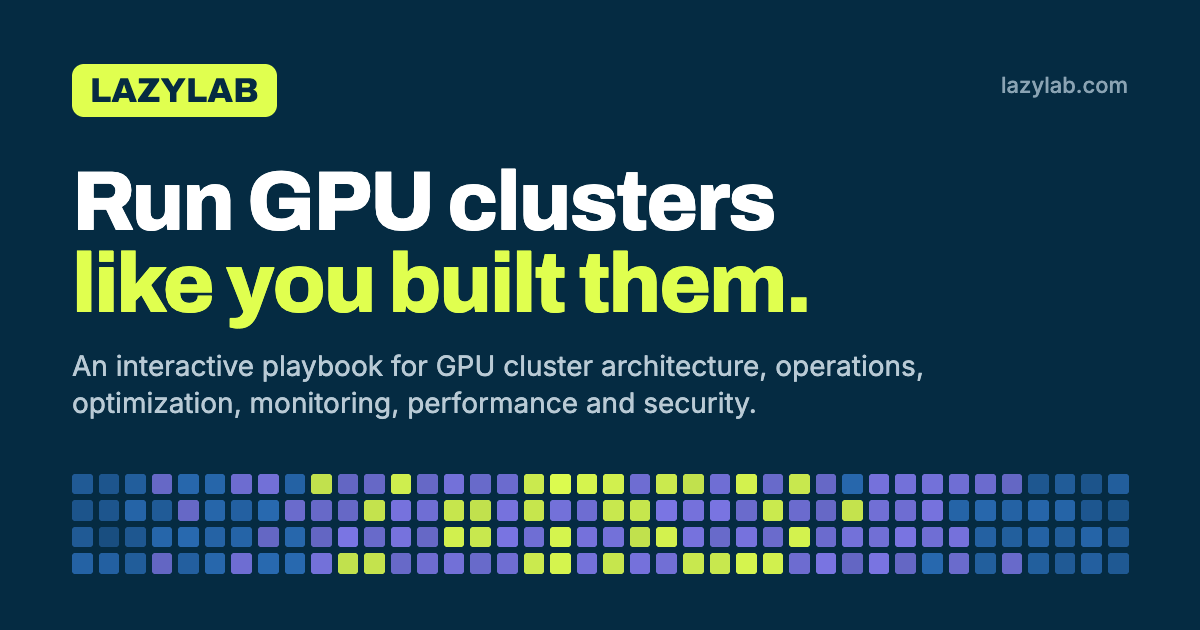
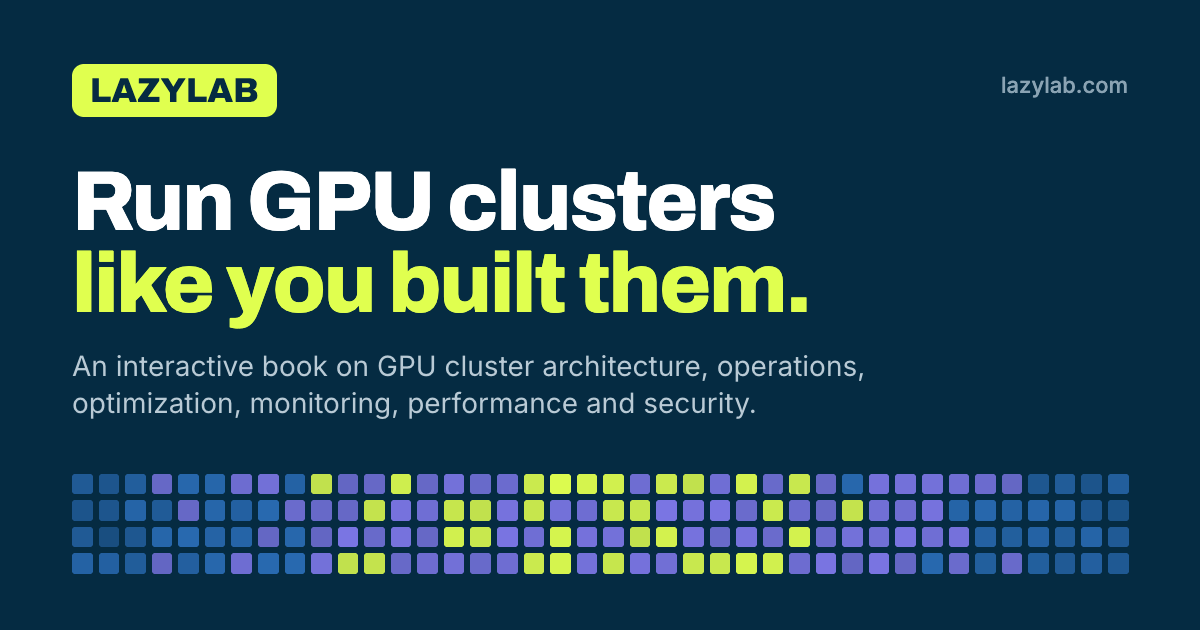
Drop the Playbook name; the home page is just LazyLab
Rename the nav item to Home, remove the Playbook heading and wording from
pages, titles, link previews, the app manifest and the README, in English
and Spanish.

Changed region(s): [[0.0617, 0.5429, 0.7708, 0.6032], [0.0617, 0.6333, 0.6167, 0.6635]]

diff --git a/src/i18n/ui.ts b/src/i18n/ui.ts
@@ -3,7 +3,7 @@ import type { Lang } from "./index";
 // Interface strings. Each entry is [English, Spanish]. Use {name} placeholders for values.
 const UI = {
   // nav & chrome
-  "nav.playbook": ["Playbook", "Playbook"],
+  "nav.home.label": ["Home", "Inicio"],
   "nav.lab": ["Lab", "Lab"],
   "nav.missions": ["Missions", "Misiones"],
   "nav.glossary": ["Glossary", "Glosario"],
@@ -17,12 +17,11 @@ const UI = {
   "footer.shoulders": ["Built on the shoulders of:", "Construido sobre el trabajo de:"],
 
   // home
-  "home.eyebrow": ["The LazyLab Playbook", "El Playbook de LazyLab"],
   "home.title1": ["Run GPU clusters", "Opera clústeres de GPU"],
   "home.title2": ["like you built them.", "como si los hubieras construido."],
   "home.lede": [
-    "An interactive book on GPU cluster architecture, operations, optimization, monitoring, performance and security. Read a section, play with the live model, clear the checkpoint, then take on the boss: a broken cluster with a real terminal.",
-    "Un libro interactivo sobre arquitectura, operación, optimización, monitoreo, rendimiento y seguridad de clústeres de GPU. Lee una sección, juega con el modelo en vivo, supera el checkpoint y enfrenta al jefe: un clúster averiado con una terminal real.",
+    "Learn GPU cluster architecture, operations, optimization, monitoring, performance and security by doing. Read a section, play with the live model, clear the checkpoint, then take on the boss: a broken cluster with a real terminal.",
+    "Aprende arquitectura, operación, optimización, monitoreo, rendimiento y seguridad de clústeres de GPU practicando. Lee una sección, juega con el modelo en vivo, supera el checkpoint y enfrenta al jefe: un clúster averiado con una terminal real.",
   ],
   "home.contents": ["Contents", "Contenido"],
   "home.skipToLab": ["Or skip to free play in the Lab →", "O ve directo al juego libre en el Lab →"],
@@ -53,7 +52,7 @@ const UI = {
   "chapter.inShort": ["In short", "En resumen"],
   "chapter.sources": ["Sources", "Fuentes"],
   "chapter.backToContents": ["Back to contents", "Volver al contenido"],
-  "toc.label": ["Playbook contents", "Contenido del Playbook"],
+  "toc.label": ["Chapters", "Capítulos"],
   "toc.boss": ["Boss: {title}", "Jefe: {title}"],
 
   // boss card
@@ -114,7 +113,7 @@ const UI = {
   "done.cost": ["Cost", "Costo"],
   "done.carbon": ["Carbon", "Carbono"],
   "done.deeper": ["Go deeper:", "Profundiza:"],
-  "done.back": ["Back to the Playbook →", "Volver al Playbook →"],
+  "done.back": ["Back to home →", "Volver al inicio →"],
   "done.again": ["Play again", "Jugar de nuevo"],
   "done.design": ["Design", "Diseño"],
   "done.capex": ["Capex", "Capex"],
@@ -219,15 +218,15 @@ const UI = {
   "glossary.eyebrow": ["Reference", "Referencia"],
   "glossary.title": ["Glossary", "Glosario"],
   "glossary.lede": [
-    "Every concept from the Playbook as a standalone reference page, cross-linked and cited.",
-    "Cada concepto del Playbook como página de referencia independiente, con enlaces cruzados y fuentes.",
+    "Every concept from LazyLab as a standalone reference page, cross-linked and cited.",
+    "Cada concepto de LazyLab como página de referencia independiente, con enlaces cruzados y fuentes.",
   ],
   "glossary.search": ["Search {n} concepts — try \"nvlink\", \"xid\", \"zero\"…", "Busca entre {n} conceptos: prueba \"nvlink\", \"xid\", \"zero\"…"],
   "glossary.read": ["{n} of {total} read on this device", "{n} de {total} leídos en este dispositivo"],
   "glossary.nothing": ["Nothing matches “{q}”.", "Nada coincide con “{q}”."],
   "glossary.all": ["← All concepts", "← Todos los conceptos"],
   "glossary.track": ["{name} track", "Ruta {name}"],
-  "glossary.inPlaybook": ["Read in the Playbook: Chapter {n} · checkpoint +50 XP →", "Leer en el Playbook: Capítulo {n} · checkpoint +50 XP →"],
+  "glossary.inChapter": ["Read it in Chapter {n} · checkpoint +50 XP →", "Leerlo en el Capítulo {n} · checkpoint +50 XP →"],
   "glossary.useIt": ["Use it in a mission", "Úsalo en una misión"],
   "glossary.related": ["Related", "Relacionado"],
   "glossary.sources": ["Sources & further reading", "Fuentes y lecturas adicionales"],
@@ -365,7 +364,7 @@ const UI = {
   "404.eyebrow": ["Xid 404", "Xid 404"],
   "404.title": ["This page has fallen off the bus.", "Esta página se cayó del bus."],
   "404.body": ["We couldn't find what you were looking for.", "No encontramos lo que buscabas."],
-  "404.home": ["Back to the Playbook", "Volver al Playbook"],
+  "404.home": ["Back to home", "Volver al inicio"],
 } as const satisfies Record<string, readonly [string, string]>;
 
 export type UIKey = keyof typeof UI;

diff --git a/src/views/meta.ts b/src/views/meta.ts
@@ -6,8 +6,8 @@ import { localize, type Lang } from "@/i18n";
 
 const PAGES = {
   home: {
-    en: ["The LazyLab Playbook — learn to run GPU clusters", "An interactive playbook for GPU cluster architecture, operations, optimization, monitoring, performance and security."],
-    es: ["El Playbook de LazyLab — aprende a operar clústeres de GPU", "Un playbook interactivo sobre arquitectura, operación, optimización, monitoreo, rendimiento y seguridad de clústeres de GPU."],
+    en: ["LazyLab — learn to run GPU clusters", "Learn GPU cluster architecture, operations, optimization, monitoring, performance and security by playing with a live simulated cluster."],
+    es: ["LazyLab — aprende a operar clústeres de GPU", "Aprende arquitectura, operación, optimización, monitoreo, rendimiento y seguridad de clústeres de GPU jugando con un clúster simulado en vivo."],
     path: "/",
   },
   lab: {
@@ -21,8 +21,8 @@ const PAGES = {
     path: "/missions/",
   },
   glossary: {
-    en: ["Glossary", "Every GPU cluster concept from the Playbook as a cross-linked reference page."],
-    es: ["Glosario", "Cada concepto de clústeres de GPU del Playbook como página de referencia con enlaces cruzados."],
+    en: ["Glossary", "Every GPU cluster concept from LazyLab as a cross-linked reference page."],
+    es: ["Glosario", "Cada concepto de clústeres de GPU de LazyLab como página de referencia con enlaces cruzados."],
     path: "/atlas/",
   },
 } as const;

diff --git a/src/views/ChapterView.tsx b/src/views/ChapterView.tsx
@@ -9,7 +9,7 @@ import { getMission } from "@/missions";
 import { Markdown } from "@/components/Markdown";
 import { Widget } from "@/components/widgets/Widgets";
 import { Checkpoint } from "@/components/Checkpoint";
-import { PlaybookToc } from "@/components/PlaybookToc";
+import { ChapterToc } from "@/components/ChapterToc";
 import { BossCard } from "@/components/BossCard";
 import { localize, type Lang } from "@/i18n";
 import { t } from "@/i18n/ui";
@@ -25,13 +25,13 @@ export function ChapterView({ lang, track }: { lang: Lang; track: string }) {
   return (
     <div className="pb-layout">
       <aside className="pb-toc">
-        <PlaybookToc current={c.track} titles={titles} />
+        <ChapterToc current={c.track} titles={titles} />
       </aside>
       <article className="pb-article">
         <details className="pb-mobile-toc">
           <summary>{t(lang, "chapter.contents")}</summary>
           <div className="pb-toc">
-            <PlaybookToc current={c.track} titles={titles} />
+            <ChapterToc current={c.track} titles={titles} />
           </div>
         </details>
         <header className="pb-head">

diff --git a/src/app/layout.tsx b/src/app/layout.tsx
@@ -9,9 +9,9 @@ const archivo = Archivo({ subsets: ["latin"], variable: "--font-archivo", displa
 const mono = JetBrains_Mono({ subsets: ["latin"], variable: "--font-jetbrains", display: "swap" });
 
 const SITE_URL = "https://lazylab.com";
-const TITLE = "The LazyLab Playbook — learn to run GPU clusters";
+const TITLE = "LazyLab — learn to run GPU clusters";
 const DESCRIPTION =
-  "An interactive playbook for GPU cluster architecture, operations, optimization, monitoring, performance and security. Read, play with a live simulated cluster, clear checkpoints and beat the boss missions.";
+  "Learn GPU cluster architecture, operations, optimization, monitoring, performance and security. Read, play with a live simulated cluster, clear checkpoints and beat the boss missions.";
 const base = process.env.NEXT_PUBLIC_BASE_PATH ?? "";
 
 export const metadata: Metadata = {

diff --git a/src/missions/index.ts b/src/missions/index.ts
@@ -204,7 +204,7 @@ Start with \`sacct\`, the job log (\`cat slurm-101.out\`) and the node's kernel 
   ],
   debrief: `**Xid 79: "GPU has fallen off the bus"** means the driver can no longer reach the GPU over PCIe. Causes include power, thermal or physical connection problems. Software can't fix it: the node needs a reboot at minimum, and often an RMA.
 
-**The playbook you just ran**
+**The procedure you just ran**
 1. *Triage from the scheduler*: \`sacct\` / the job log tells you *which* node.
 2. *Confirm at the source*: \`dmesg\` holds the driver's Xid messages. The open-source NVIDIA kernel modules (open-gpu-kernel-modules) are where these are emitted.
 3. *Contain*: **drain** the node (running jobs finish, new ones avoid it) with a reason the hardware team can read later in \`sinfo -R\`.

diff --git a/src/content/es/atlas-parallelism.ts b/src/content/es/atlas-parallelism.ts
@@ -90,7 +90,7 @@ La receta clásica para modelos grandes, el **paralelismo 3D**, combina los tres
 
 **Por qué es tan importante**: los [[tensor-core|tensor cores]] entregan ~15× más FLOP/s en BF16 que en FP32 simple en una H100. Entrenar en FP32 deja casi toda la GPU ociosa.
 
-**Memoria**: pesos y gradientes en 2 bytes, más 12 bytes de estado del optimizador en FP32 (maestro, m y v de Adam), da la regla de "16 bytes por parámetro" que se usa en todo el Playbook.`,
+**Memoria**: pesos y gradientes en 2 bytes, más 12 bytes de estado del optimizador en FP32 (maestro, m y v de Adam), da la regla de "16 bytes por parámetro" que se usa en todo LazyLab.`,
   },
   "activation-checkpointing": {
     title: "Checkpointing de activaciones",

diff --git a/src/components/ChapterToc.tsx b/src/components/ChapterToc.tsx
@@ -8,7 +8,7 @@ import type { TrackId } from "@/missions";
 import { useLang } from "@/i18n/client";
 import { useProgress } from "./useProgress";
 
-export function PlaybookToc({ current, titles }: { current?: TrackId; titles: Record<string, string> }) {
+export function ChapterToc({ current, titles }: { current?: TrackId; titles: Record<string, string> }) {
   const { lang, t, L } = useLang();
   const p = useProgress();
   const [active, setActive] = useState<string | null>(null);

diff --git a/src/views/OtherViews.tsx b/src/views/OtherViews.tsx
@@ -128,7 +128,7 @@ export function GlossaryEntryView({ lang, slug }: { lang: Lang; slug: string }) 
         {chapter && (
           <p>
             <Link href={L(`/play/${chapter.track}/#${e.slug}`)} className="btn small primary">
-              {t(lang, "glossary.inPlaybook", { n: chapter.n })}
+              {t(lang, "glossary.inChapter", { n: chapter.n })}
             </Link>
           </p>
         )}

diff --git a/src/components/Nav.tsx b/src/components/Nav.tsx
@@ -9,7 +9,7 @@ import { basePathOf, localize, type Lang } from "@/i18n";
 import type { UIKey } from "@/i18n/ui";
 
 const LINKS: { href: string; key: UIKey }[] = [
-  { href: "/", key: "nav.playbook" },
+  { href: "/", key: "nav.home.label" },
   { href: "/lab/", key: "nav.lab" },
   { href: "/missions/", key: "nav.missions" },
   { href: "/atlas/", key: "nav.glossary" },

diff --git a/src/views/HomeView.tsx b/src/views/HomeView.tsx
@@ -11,7 +11,6 @@ export function HomeView({ lang }: { lang: Lang }) {
       <section className="cover">
         <div className="cover-inner">
           <div>
-            <div className="eyebrow" style={{ marginBottom: 12 }}>{t(lang, "home.eyebrow")}</div>
             <h1>
               {t(lang, "home.title1")}
               <br />

diff --git a/README.md b/README.md
@@ -2,11 +2,11 @@
 
 **Learn GPU clusters by breaking them.** Live at **[lazylab.com](https://lazylab.com/)**.
 
-LazyLab is an interactive book you can play: **The LazyLab Playbook** teaches how to design, run, tune, monitor and secure GPU clusters. Each section mixes explanation, live models and a checkpoint challenge. Each chapter ends in a boss mission: a broken simulated cluster with a real terminal. Everything runs client-side, so hosting is free. Sign-in is optional and only syncs progress.
+LazyLab teaches how to design, run, tune, monitor and secure GPU clusters, and you learn it by playing. Each section mixes explanation, live models and a checkpoint challenge. Each chapter ends in a boss mission: a broken simulated cluster with a real terminal. Everything runs client-side, so hosting is free. Sign-in is optional and only syncs progress.
 
 ## What's inside
 
-- **Playbook** (`/`): six chapters, 44 sections. Every section ends with a checkpoint (multiple choice, real tool output to interpret, or quick calculations) worth XP. Progress gives you a rank (Intern → Distinguished Engineer) and a daily streak.
+- **Home** (`/`): six chapters, 44 sections. Every section ends with a checkpoint (multiple choice, real tool output to interpret, or quick calculations) worth XP. Progress gives you a rank (Intern → Distinguished Engineer) and a daily streak.
 - **Boss missions** (8), unlocked once you master half a chapter's sections:
 
   | Chapter | Boss |
